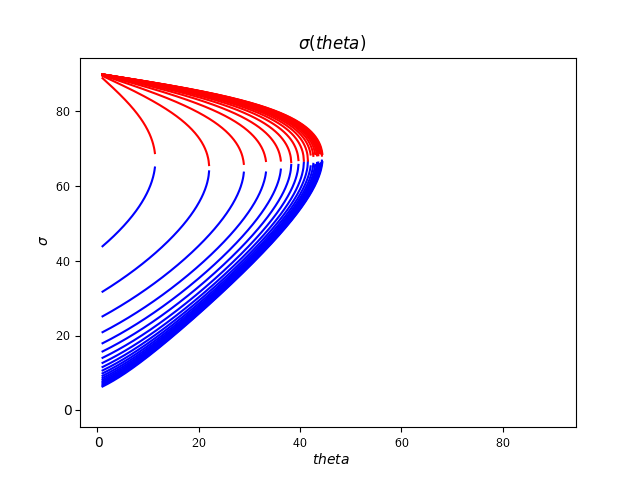
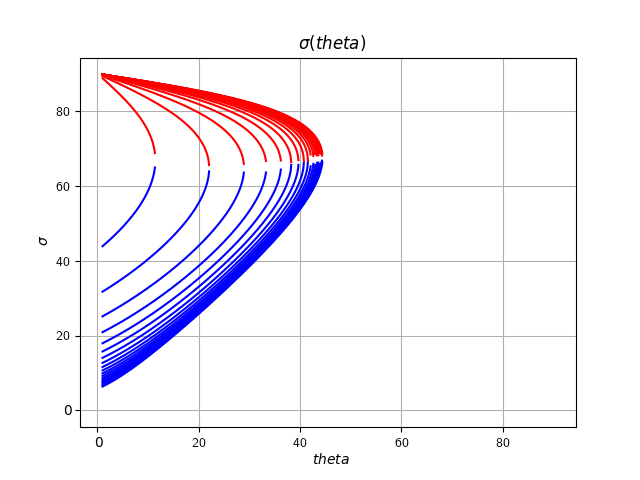
Adding grid to polar

diff --git a/shock_polar.py b/shock_polar.py
@@ -1,5 +1,5 @@
 from numpy import degrees, radians, sin, tan, cos, pi, arccos, arctan, nan, linspace, zeros, array
-from matplotlib.pyplot import plot, xlabel, ylabel, title, show, rc, savefig, close, subplots
+from matplotlib.pyplot import plot, xlabel, ylabel, title, show, rc, savefig, close, subplots, grid
 
 def shock_polar_deg(theta_deg, M):
 
@@ -52,5 +52,6 @@ rc('text', usetex=True)
 xlabel('$theta$')
 ylabel('$\sigma$')
 title("$\sigma(theta)$")
+grid()
 savefig('polar.png', format='png')
 close('all')
